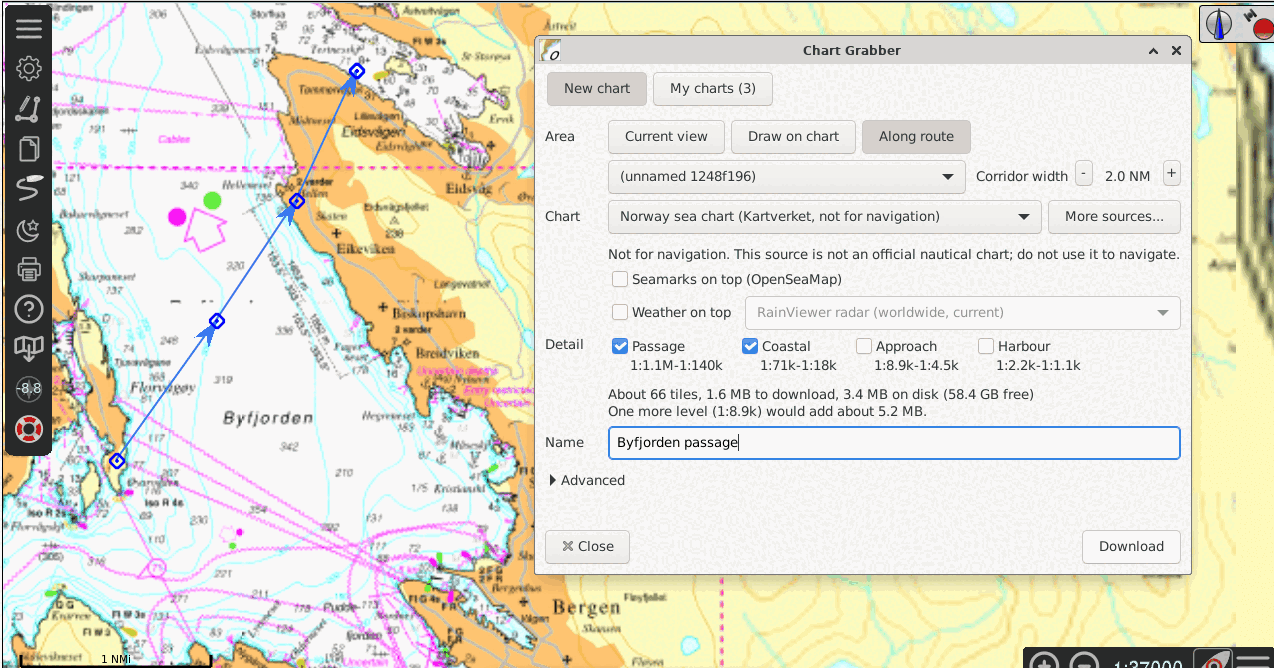
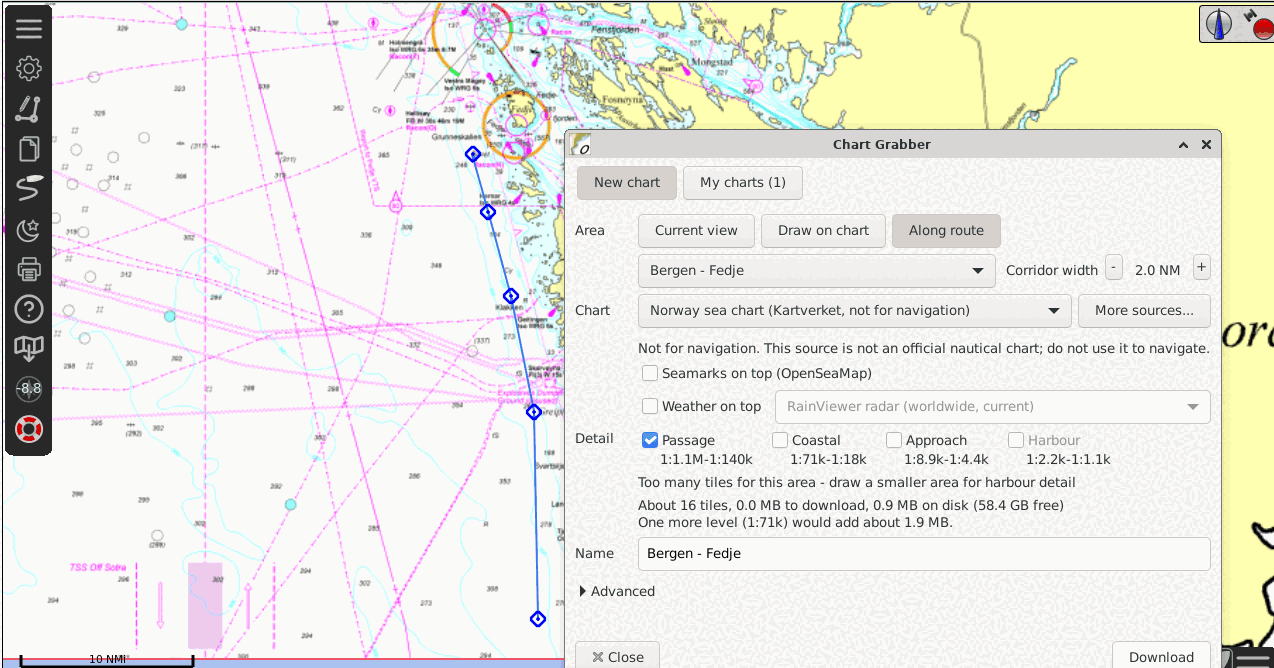
User guide: route example over open water, current My charts view

diff --git a/docs/user-guide.md b/docs/user-guide.md
@@ -233,7 +233,7 @@ NOAA NCCOS seabed habitat map (Saipan) colours: pale yellow bare sand, olive san
 
 - **Along route**: pick a route and its **Corridor width** (0.5 to 20 NM, default 2.0).
 
-![The Along route page: a route on the chart, the route picker and the corridor width](images/area-route.png)
+![The Along route page: the route Bergen - Fedje over open water, the route picker and the corridor width](images/area-route.png)
 
 - **Detail**: the bands **Passage** and **Coastal** (on by default), **Approach** and **Harbour** (small areas only), each with its scale. The estimate tells you what one more level would add. For exact limits, use **Advanced**, **Least detail** / **Most detail**.
 
@@ -244,7 +244,7 @@ NOAA NCCOS seabed habitat map (Saipan) colours: pale yellow bare sand, olive san
 - **Stop** saves progress ("Stopped. Resume any time from My charts."); **Resume** continues.
 - **Update...** downloads again the tiles older than the age you pick: **Today (all tiles)**, **1 month**, **6 months** or **1 year**.
 
-![My charts](images/my-charts.png)
+![My charts with a sea chart, a weather chart and the Update all weather charts button](images/my-charts.png)
 
 ![The More... menu of a chart in My charts: Top up, Update..., Build from saved tiles, Delete, Show in folder](images/my-charts-more.png)
 
